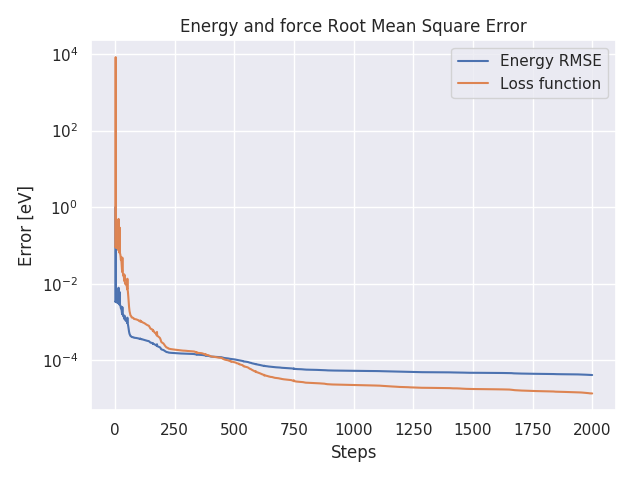
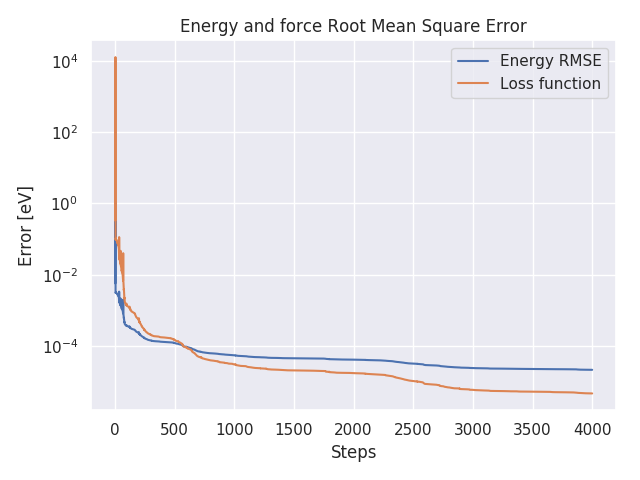
Small changes

diff --git a/stillinger-weber/test_calc.py b/stillinger-weber/test_calc.py
@@ -1,5 +1,5 @@
 import sys
-from asap3 import OpenKIMcalculator
+from asap3 import EMT
 from amp import Amp
 from amp.analysis import calculate_error
 
@@ -11,54 +11,65 @@ from plotting import Plotter
 
 
 if __name__ == "__main__":
-    plter = Plotter()
-    plter.plot_trainlog("calcs/energy-trained-log.txt", "energy_log.png")
-    plter.plot_trainlog("calcs/force-trained-log.txt", "force_log.png")
-
     system = "silicon"
     size = (2, 2, 2)
     temp = 500
+    timestep = 2.5
     n_test = int(5e3)
     save_interval = 10
-    timestep = 2.5
+
+    energy_log = "energy-trained-log.txt"
+    force_log = "force-trained-log.txt"
+    energy_plot = system + "_" + "energy_log.png"
+    force_plot = system + "_" + "force_log.png"
+    plter = Plotter()
+    plter.plot_trainlog(energy_log, energy_plot)
+    plter.plot_trainlog(force_log, force_plot)
 
     trjbd = TrajectoryBuilder()
-    calc = OpenKIMcalculator("SW_StillingerWeber_1985_Si__MO_405512056662_005")
+    calc = EMT()
     test_atoms = trjbd.build_atoms(system, size, temp, calc, seed=0)
     calc = Amp.load("calcs/force-trained.amp")
     amp_test_atoms = trjbd.build_atoms(system, size, temp, calc, seed=0)
 
     test_traj = "test.traj"
     steps, test_traj = trjbd.integrate_atoms(
-        test_atoms, test_traj, n_test, save_interval, timestep=timestep, convert=True,
+        test_atoms, test_traj, n_test, save_interval, timestep=timestep, convert=True
     )
 
     amp_test_traj = "amp_test.traj"
     steps, amp_test_traj = trjbd.integrate_atoms(
-        amp_test_atoms, amp_test_traj, n_test, save_interval, timestep=timestep, convert=True
+        amp_test_atoms,
+        amp_test_traj,
+        n_test,
+        save_interval,
+        timestep=timestep,
+        convert=True,
     )
 
     legend = ["SW", "AMP"]
     anl = Analyzer()
     r, rdf = anl.calculate_rdf(test_traj, r_max=6.0)
     r_amp, rdf_amp = anl.calculate_rdf(amp_test_traj, r_max=6.0)
-    plter.plot_rdf("rdf.png", legend, r, rdf, rdf_amp)
+    rdf_plot = system + "_" + "rdf.png"
+    plter.plot_rdf(rdf_plot, legend, r, rdf, rdf_amp)
 
     steps, energy_exact, energy_amp = anl.calculate_pot_energy_diff(
         test_traj, amp_test_traj, save_interval=save_interval
     )
-    plter.plot_pot_energy_diff(
-        "pot_energy.png", legend, steps, energy_exact, energy_amp
-    )
+    pot_plot = system + "_" + "pot.png"
+    plter.plot_pot_energy_diff(pot_plot, legend, steps, energy_exact, energy_amp)
 
     steps, energy_exact, energy_amp = anl.calculate_energy_diff(
         test_traj, amp_test_traj, save_interval=save_interval
     )
-    plter.plot_energy_diff("energy.png", legend, steps, energy_exact, energy_amp)
+    energy_plot = system + "_" + "energy.png"
+    plter.plot_energy_diff(energy_plot, legend, steps, energy_exact, energy_amp)
 
     steps, msd = anl.calculate_msd(test_traj, save_interval=save_interval)
     steps, amp_msd = anl.calculate_msd(amp_test_traj, save_interval=save_interval)
-    plter.plot_msd("msd.png", legend, steps, msd, amp_msd)
+    msd_plot = system + "_" + "msd.png"
+    plter.plot_msd(msd_plot, legend, steps, msd, amp_msd)
 
     energy_rmse, force_rmse, energy_exact, energy_diff, force_exact, force_diff = calculate_error(
         "calcs/force-trained.amp", test_traj

diff --git a/emt-copper/test_calc.py b/emt-copper/test_calc.py
@@ -11,17 +11,21 @@ from plotting import Plotter
 
 
 if __name__ == "__main__":
-    plter = Plotter()
-    plter.plot_trainlog("calcs/energy-trained-log.txt", "energy_log.png")
-    plter.plot_trainlog("calcs/force-trained-log.txt", "force_log.png")
-
     system = "copper"
     size = (2, 2, 2)
-    temp = 300
+    temp = 500
     timestep = 2.5
-
     n_test = int(5e3)
     save_interval = 10
+    legend = ["EMT", "AMP"]
+
+    energy_log = "energy-trained-log.txt"
+    force_log = "force-trained-log.txt"
+    energy_plot = system + "_" + "energy_log.png"
+    force_plot = system + "_" + "force_log.png"
+    plter = Plotter()
+    plter.plot_trainlog(energy_log, energy_plot)
+    plter.plot_trainlog(force_log, force_plot)
 
     trjbd = TrajectoryBuilder()
     calc = EMT()
@@ -36,30 +40,36 @@ if __name__ == "__main__":
 
     amp_test_traj = "amp_test.traj"
     steps, amp_test_traj = trjbd.integrate_atoms(
-        amp_test_atoms, amp_test_traj, n_test, save_interval, timestep=timestep, convert=True
+        amp_test_atoms,
+        amp_test_traj,
+        n_test,
+        save_interval,
+        timestep=timestep,
+        convert=True,
     )
 
-    legend = ["EMT", "AMP"]
     anl = Analyzer()
     r, rdf = anl.calculate_rdf(test_traj, r_max=6.0)
     r_amp, rdf_amp = anl.calculate_rdf(amp_test_traj, r_max=6.0)
-    plter.plot_rdf("rdf.png", legend, r, rdf, rdf_amp)
+    rdf_plot = system + "_" + "rdf.png"
+    plter.plot_rdf(rdf_plot, legend, r, rdf, rdf_amp)
 
     steps, energy_exact, energy_amp = anl.calculate_pot_energy_diff(
         test_traj, amp_test_traj, save_interval=save_interval
     )
-    plter.plot_pot_energy_diff(
-        "pot_energy.png", legend, steps, energy_exact, energy_amp
-    )
+    pot_plot = system + "_" + "pot.png"
+    plter.plot_pot_energy_diff(pot_plot, legend, steps, energy_exact, energy_amp)
 
     steps, energy_exact, energy_amp = anl.calculate_energy_diff(
         test_traj, amp_test_traj, save_interval=save_interval
     )
-    plter.plot_energy_diff("energy.png", legend, steps, energy_exact, energy_amp)
+    energy_plot = system + "_" + "energy.png"
+    plter.plot_energy_diff(energy_plot, legend, steps, energy_exact, energy_amp)
 
     steps, msd = anl.calculate_msd(test_traj, save_interval=save_interval)
     steps, amp_msd = anl.calculate_msd(amp_test_traj, save_interval=save_interval)
-    plter.plot_msd("msd.png", legend, steps, msd, amp_msd)
+    msd_plot = system + "_" + "msd.png"
+    plter.plot_msd(msd_plot, legend, steps, msd, amp_msd)
 
     energy_rmse, force_rmse, energy_exact, energy_diff, force_exact, force_diff = calculate_error(
         "calcs/force-trained.amp", test_traj

diff --git a/stillinger-weber/main.py b/stillinger-weber/main.py
@@ -19,20 +19,24 @@ if __name__ == "__main__":
     size = (2, 2, 2)
     temp = 500
     n_train = int(8e5)
-    n_train_force = int(5e4)
+    n_train_force = int(1e5)
     save_interval = 100
     timestep = 5.0
 
-    max_steps = int(2e3)
+    max_steps = int(4e3)
     convergence = {"energy_rmse": 1e-16, "force_rmse": None, "max_steps": max_steps}
     force_coefficient = None
-    cutoff = Cosine(6.0)
-    num_radial_etas = 8
-    num_angular_etas = num_radial_etas + 4
+    hidden_layers = [10]
+    cutoff = Polynomial(5.0, gamma=5.0)
+    num_radial_etas = 7
+    num_angular_etas = 11
     num_zetas = 1
     angular_type = "G4"
     trn = Trainer(
-        convergence=convergence, force_coefficient=force_coefficient, cutoff=cutoff
+        convergence=convergence,
+        force_coefficient=force_coefficient,
+        cutoff=cutoff,
+        hidden_layers=hidden_layers,
     )
     trn.create_Gs(elements, num_radial_etas, num_angular_etas, num_zetas, angular_type)
 
@@ -67,7 +71,7 @@ if __name__ == "__main__":
     calc = Amp.load(amp_name, label=label, dblabel=dblabel)
     convergence = {"energy_rmse": 1e-16, "force_rmse": 1e-16, "max_steps": max_steps}
     loss_function = LossFunction(
-        convergence=convergence, energy_coefficient=1.0, force_coefficient=0.05
+        convergence=convergence, energy_coefficient=1.0, force_coefficient=0.1
     )
     calc.model.lossfunction = loss_function
     amp_name = trn.train_calc(calc, train_force_traj)

diff --git a/emt-copper/main.py b/emt-copper/main.py
@@ -19,19 +19,20 @@ if __name__ == "__main__":
     size = (2, 2, 2)
     temp = 500
     n_train = int(8e5)
-    n_train_force = int(5e4)
+    n_train_force = int(1e5)
     save_interval = 100
 
-    max_steps = int(2e3)
+    max_steps = int(4e3)
     convergence = {"energy_rmse": 1e-16, "force_rmse": None, "max_steps": max_steps}
     force_coefficient = None
+    hidden_layers = [10]
     cutoff = Polynomial(6.0, gamma=5.0)
-    num_radial_etas = 6
-    num_angular_etas = 10
+    num_radial_etas = 7
+    num_angular_etas = 11
     num_zetas = 1
     angular_type = "G4"
     trn = Trainer(
-        convergence=convergence, force_coefficient=force_coefficient, cutoff=cutoff
+        convergence=convergence, force_coefficient=force_coefficient, cutoff=cutoff, hidden_layers=hidden_layers,
     )
     trn.create_Gs(elements, num_radial_etas, num_angular_etas, num_zetas, angular_type)
 
@@ -61,7 +62,7 @@ if __name__ == "__main__":
     calc = Amp.load(amp_name, label=label, dblabel=dblabel)
     convergence = {"energy_rmse": 1e-16, "force_rmse": 1e-16, "max_steps": max_steps}
     loss_function = LossFunction(
-        convergence=convergence, energy_coefficient=1.0, force_coefficient=0.05
+        convergence=convergence, energy_coefficient=1.0, force_coefficient=0.1
     )
     calc.model.lossfunction = loss_function
     amp_name = trn.train_calc(calc, train_force_traj)

diff --git a/gpaw-copper/main.py b/gpaw-copper/main.py
@@ -19,14 +19,14 @@ if __name__ == "__main__":
     atmb = AtomBuilder()
     atoms = atmb.build_atoms(system, size, temp)
 
-    calc = GPAW(symmetry={'point_group': False})
+    calc = GPAW(symmetry={"point_group": False})
     atoms.set_calculator(calc)
     atoms.get_potential_energy()
     calc.write(system + ".gpw", mode="all")
 
     # Ehrenfest simulation parameters
-    timestep = 10.0     # timestep given in attoseconds
-    count = 5000        # run for 500 timesteps
+    timestep = 10.0  # timestep given in attoseconds
+    count = 5000  # run for 500 timesteps
 
     tdcalc = TDDFT(
         system + ".gpw", txt=system + "_td.txt", propagator="EFSICN", solver="BiCGStab"

diff --git a/tools/plotting.py b/tools/plotting.py
@@ -6,13 +6,14 @@ from amp.analysis import read_trainlog
 
 
 class Plotter:
-    def __init__(self, plot_dir="plots"):
+    def __init__(self, plot_dir="plots", calc_dir="calcs"):
         sns.set()
         if not os.path.exists(plot_dir):
             os.mkdir(plot_dir)
         self.plot_dir = plot_dir
 
     def plot_trainlog(self, log_file, plot_file):
+        log_file = os.path.join(self.calc_dir, log_file)
         plot_file = os.path.join(self.plot_dir, plot_file)
 
         log = read_trainlog(log_file)
